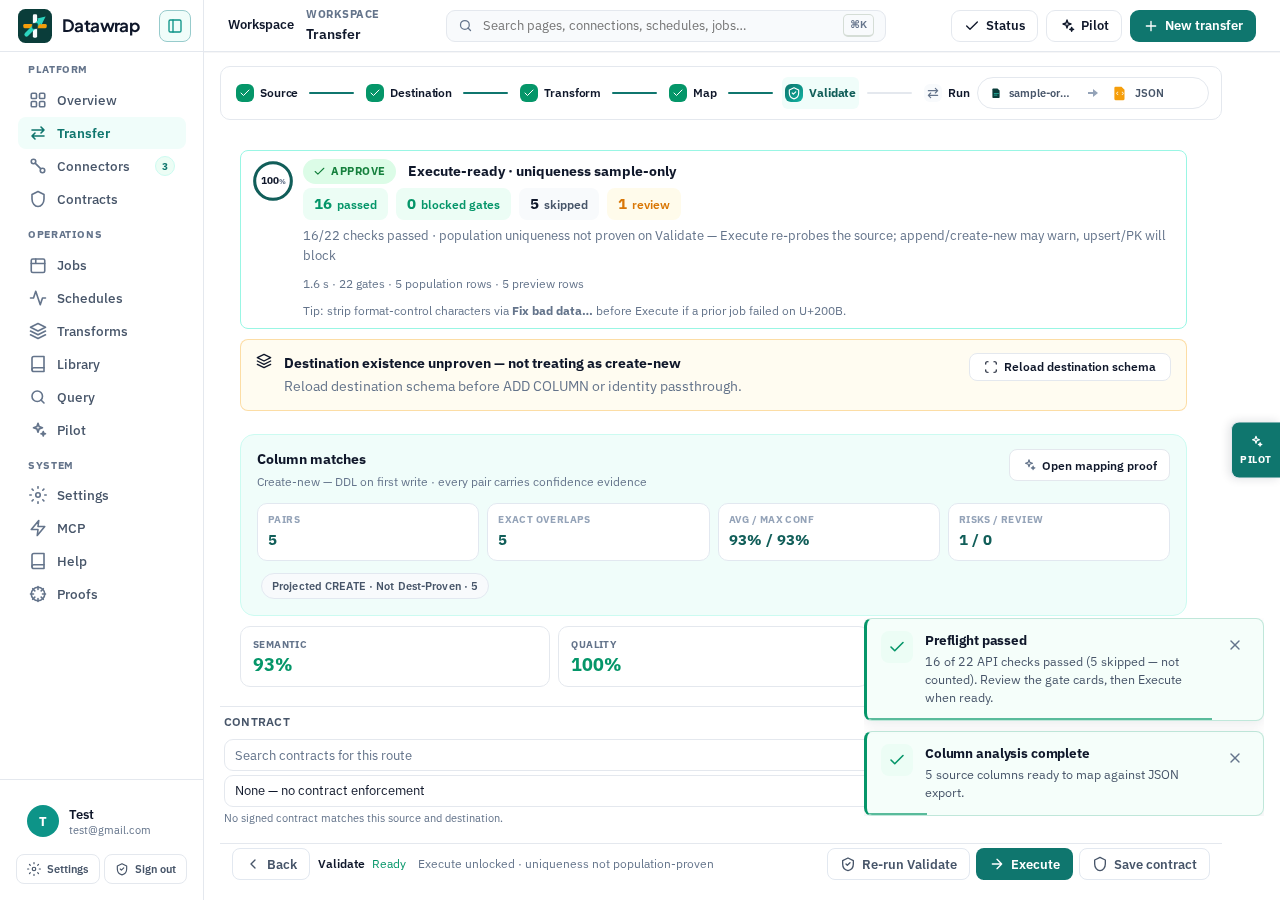
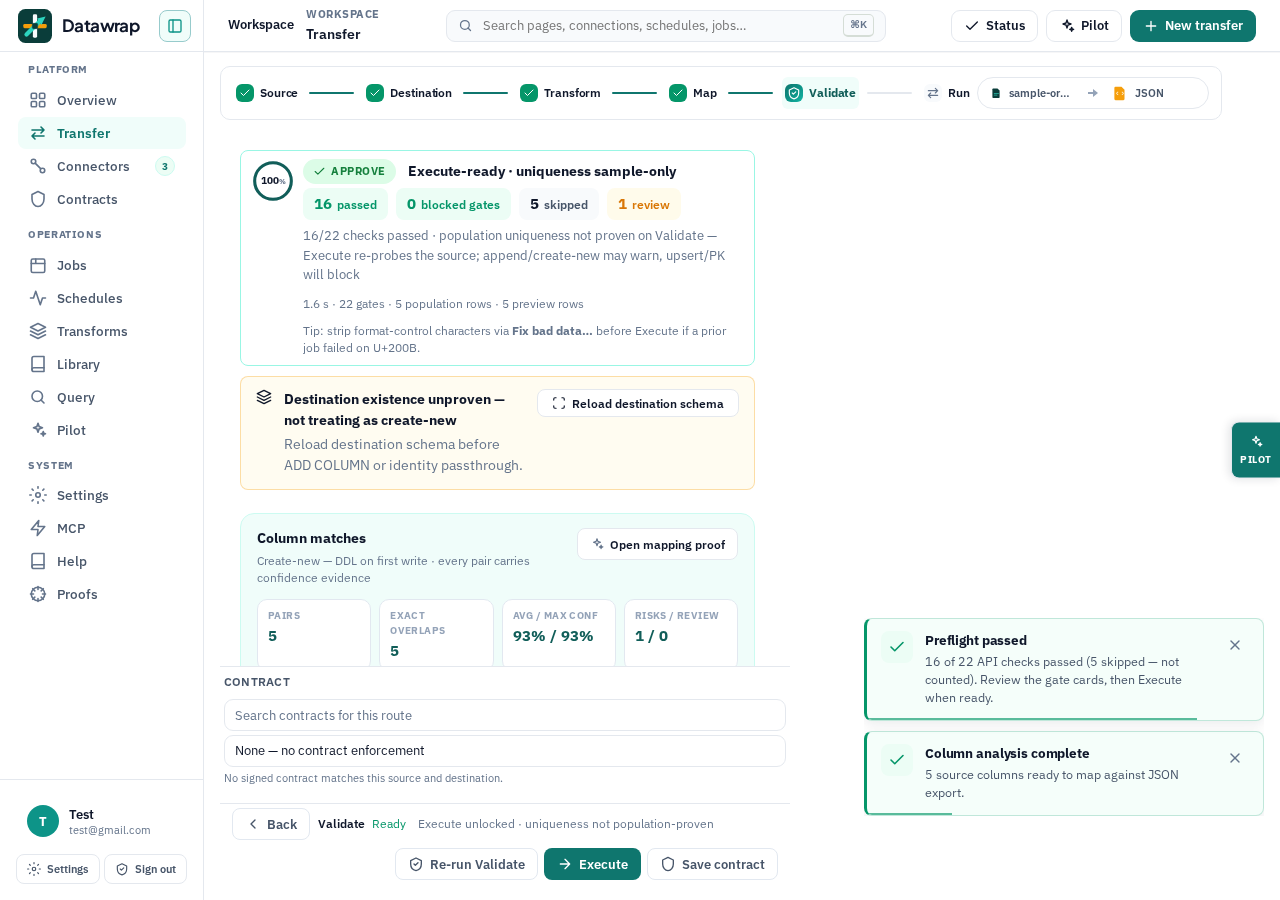
defects: D-BP-11 validate toast gutter, mx1_02 allowlist merge, accent token, X-3 runtime oracle
- D-BP-11: reserve a toast gutter via margin-right on the step viewport while
  any .dt-toast is on screen (padding is !important-locked on the validate
  host); spec now hard-asserts Validate leg — step active, >=1 toast, zero
  intersection with contract search/select, every metric card, footer and
  primary actions at 1440 and 1280; after-PNGs committed.
- mx1_02: autouse fixture merges DATAFLOW_EGRESS_ALLOWLIST instead of
  replacing it and includes 127.0.0.0/8 and ::1/128 so the live pin-connect
  can reach the container.
- .df2-map-error-details > summary uses var(--df-brand-text), dropping the
  hard-coded #2563eb fallback.
- X-3: runtime oracle (_recipe_step_sql) now covers cast_column to integer
  family and declared-precision decimal on PG/MySQL/T-SQL; 7 regressions.
  Runtime coverage is separate from the 17/43 test-level oracle counter.

diff --git a/apps/web/e2e/toast-footer-clearance.spec.ts b/apps/web/e2e/toast-footer-clearance.spec.ts
@@ -50,7 +50,8 @@ async function assertToastClearance(page: Page, label: string) {
 
   const targets = page.locator(
     ".df2-wizard-footer, .df2-run-footer, .df2-transfer-step-panel .df2-btn-primary, " +
-      ".df2-empty-state, .df2-map-empty-state, .df2-card",
+      ".df2-empty-state, .df2-map-empty-state, .df2-card, " +
+      ".df2-contract-bind, .df2-vd-metric",
   );
   const targetBoxes = await visibleBoxes(targets);
   expect(
@@ -94,23 +95,38 @@ test.describe("toast/footer clearance (D-BP-11)", () => {
       await loadSample(page);
       await assertToastClearance(page, `Source @${width}px`);
 
-      // Validate step: the "Preflight passed" toast used to cover the contract
-      // search/select row — the original complaint.
-      const next = page.getByRole("button", {
-        name: /Continue to (Destination|Validate|Transform)/,
+      // Validate step — HARD assertion: the spec must actually reach the
+      // Validate panel (the "Preflight passed" toast covered the contract
+      // search/select and a metric card — the original complaint). Any
+      // conditional path that skips this leg is a spec bug.
+      const clickIf = async (re: RegExp, ms = 2500) => {
+        const b = page.getByRole("button", { name: re }).first();
+        if (await b.isVisible().catch(() => false)) {
+          await b.click().catch(() => {});
+          await page.waitForTimeout(ms);
+        }
+      };
+      await clickIf(/Continue to Destination/);
+      const fileTab = page.getByRole("tab", { name: /File export|File/ }).first();
+      if (await fileTab.isVisible().catch(() => false)) {
+        await fileTab.click();
+        await page.waitForTimeout(400);
+      }
+      await clickIf(/Continue to Review|Continue to Transform/);
+      await clickIf(/Review result/);
+      await clickIf(/Continue without transforming/);
+      const toValidate = page
+        .getByRole("button", { name: /Continue to Validate/ })
+        .first();
+      await toValidate.waitFor({ state: "visible", timeout: 15_000 });
+      await toValidate.click();
+      // Validate panel + the contract bind field + at least one metric card
+      // must be on screen, and the Validate toasts must be live.
+      await expect(page.locator(".df2-contract-bind").first()).toBeVisible({
+        timeout: 15_000,
       });
-      if (await next.isVisible().catch(() => false)) {
-        await next.click();
-      }
-      // Reach Validate via the step rail if the wizard exposes it; otherwise
-      // settle for any step that still shows a live toast.
-      const validateTab = page.getByRole("tab", { name: /Validate/ });
-      if (await validateTab.isVisible().catch(() => false)) {
-        await validateTab.click();
-      }
-      if (await page.locator(".dt-toast:visible").count()) {
-        await assertToastClearance(page, `post-Source step @${width}px`);
-      }
+      await expect(page.locator(".df2-vd-metric").first()).toBeVisible();
+      await assertToastClearance(page, `Validate step @${width}px`);
     });
   }
 });

diff --git a/apps/web/src/styles/transfer-studio.css b/apps/web/src/styles/transfer-studio.css
@@ -10476,6 +10476,17 @@ body:has(.df2-page-transfer-studio .df2-transfer-step-panel) .dt-toast-host {
   max-height: min(240px, 30vh);
 }
 
+/* D-BP-11 Validate leg: while any toast is on screen, the step viewport
+   reserves the toast column outright — contract search/select, metric cards,
+   footers and content reflow left of the gutter instead of painting under the
+   toasts. Engages only while .dt-toast exists, so there is no dead space.
+   margin-right, not padding-right: the Validate host pins padding: 0
+   !important and a padded rule can never win that fight. */
+body:has(.df2-page-transfer-studio .df2-transfer-step-panel):has(.dt-toast)
+  .df2-transfer-step-viewport {
+  margin-right: calc(var(--df-toast-width) + 32px);
+}
+
 .df2-page-transfer-studio .df2-transfer-step-viewport {
   scroll-padding-bottom: 110px;
 }
@@ -12088,7 +12099,7 @@ body:has(.df2-page-transfer-studio .df2-xform) .dt-toast-host {
 }
 .df2-map-error-details > summary {
   cursor: pointer;
-  color: var(--df-accent, #2563eb);
+  color: var(--df-brand-text);
   text-align: center;
 }
 .df2-map-error-details > p {

diff --git a/apps/api/tests/test_x3_runtime_oracle_ops.py b/apps/api/tests/test_x3_runtime_oracle_ops.py
@@ -1,0 +1,86 @@
+"""X-3: the runtime transform-proof oracle must cover the ops the test-level
+oracles already prove — a production verdict on a trim/case/cast recipe was
+reporting ``oracle_uncovered_steps ["step 3 (cast_column)"]``.
+
+These regressions pin the emitted SQL per dialect for every newly wired op.
+Runtime coverage is a separate counter from the test-level oracle coverage:
+it counts ops whose faithful SQL fragment ``_recipe_step_sql`` can emit for
+every oracle dialect family (PG, MySQL, T-SQL).
+"""
+
+from __future__ import annotations
+
+import sys
+from pathlib import Path
+
+_API_ROOT = Path(__file__).resolve().parents[1]
+if str(_API_ROOT) not in sys.path:
+    sys.path.insert(0, str(_API_ROOT))
+
+import src.transfer.reconcile_step as _rs  # noqa: E402
+
+_recipe_step_sql = getattr(_rs, "_recipe_step_sql", None)
+
+
+def _call(op, opts, col, src_type):
+    assert _recipe_step_sql is not None, "_recipe_step_sql missing (pre-fix)"
+    return _recipe_step_sql(op, opts, col, {}, src_type=src_type)
+
+
+def test_cast_integer_pg_rounds_like_engine():
+    # Engine: to_number -> to_integral_value(ROUND_HALF_UP), refusing
+    # non-whole input. PG numeric -> bigint casts half-away-from-zero.
+    sql = _call("cast_column", {"to_type": "integer"}, '"qty"', "postgresql")
+    assert sql == 'CAST(CAST("qty" AS numeric) AS bigint)'
+
+
+def test_cast_integer_mysql_uses_signed_cast():
+    sql = _call("cast_column", {"to_type": "integer"}, "`qty`", "mysql")
+    assert sql == "CAST(`qty` AS SIGNED)"
+
+
+def test_cast_integer_tsql_try_casts_then_rounds():
+    sql = _call("cast_column", {"to_type": "bigint"}, "[qty]", "sqlserver")
+    assert sql == "CAST(ROUND(TRY_CAST([qty] AS decimal(38,10)),0) AS bigint)"
+
+
+def test_cast_decimal_uses_declared_precision():
+    sql = _call(
+        "cast_column",
+        {"to_type": "decimal", "precision": 38, "scale": 10},
+        '"amt"',
+        "postgresql",
+    )
+    assert sql == 'CAST("amt" AS DECIMAL(38,10))'
+    sql = _call(
+        "cast_column",
+        {"to_type": "decimal", "precision": 38, "scale": 10},
+        "[amt]",
+        "mssql",
+    )
+    assert sql == "TRY_CAST([amt] AS decimal(38,10))"
+
+
+def test_cast_decimal_without_precision_stays_uncovered():
+    assert _call("cast_column", {"to_type": "decimal"}, '"amt"', "postgresql") is None
+    assert _call(
+        "cast_column", {"to_type": "decimal", "precision": "abc"}, '"amt"', "postgresql"
+    ) is None
+
+
+def test_loop_recipe_now_fully_covered():
+    """The exact reported recipe — trim + case + cast integer — must emit a
+    faithful fragment for every step on every oracle dialect family."""
+    steps = [
+        ("trim", {}, "note"),
+        ("case", {"mode": "upper"}, "note"),
+        ("cast_column", {"to_type": "integer"}, "qty"),
+    ]
+    quote = {"postgresql": '"%s"', "mysql": "`%s`", "sqlserver": "[%s]"}
+    for dialect, q in quote.items():
+        for i, (op, opts, col) in enumerate(steps):
+            sql = _call(op, opts, q % col, dialect)
+            assert sql is not None, (
+                f"step {i + 1} ({op}) uncovered on {dialect} — "
+                "would report oracle_uncovered_steps"
+            )

diff --git a/apps/api/src/transfer/reconcile_step.py b/apps/api/src/transfer/reconcile_step.py
@@ -697,13 +697,46 @@ def _recipe_step_sql(
         for v in opts.get("values") or []:
             expr = f"NULLIF({expr}, {_lit(v)})"
         return expr
-    if op == "cast_column" and str(
-        opts.get("to_type") or ""
-    ).casefold() == "text":
-        if tsql:
-            return f"CAST({col_expr} AS nvarchar(max))"
-        cast = "TEXT" if src_type in {"postgresql", "postgres"} else "CHAR"
-        return f"CAST({col_expr} AS {cast})"
+    if op == "cast_column":
+        to_type = str(opts.get("to_type") or "").casefold()
+        if to_type == "text":
+            if tsql:
+                return f"CAST({col_expr} AS nvarchar(max))"
+            cast = "TEXT" if src_type in {"postgresql", "postgres"} else "CHAR"
+            return f"CAST({col_expr} AS {cast})"
+        if to_type in {"integer", "bigint", "smallint", "int"}:
+            # Engine: to_number -> to_integral_value(ROUND_HALF_UP), refusing
+            # non-whole inputs. Each fragment rounds half-away-from-zero the
+            # same way; a source value the engine refused never lands in eo,
+            # so a NULL/0 oracle value for it simply never joins.
+            if tsql:
+                return (
+                    "CAST(ROUND(TRY_CAST("
+                    f"{col_expr} AS decimal(38,10)),0) AS bigint)"
+                )
+            if src_type in {"postgresql", "postgres"}:
+                # numeric -> bigint rounds half-away-from-zero.
+                return f"CAST(CAST({col_expr} AS numeric) AS bigint)"
+            # MySQL CAST(x AS SIGNED) rounds; verified against the engine in
+            # test_oracle_cast_column_integer_matches_mysql_cast.
+            return f"CAST({col_expr} AS SIGNED)"
+        if to_type == "decimal":
+            precision = opts.get("precision")
+            scale = opts.get("scale")
+            if precision in (None, ""):
+                return None  # unbounded decimal — no faithful target width
+            try:
+                width = int(precision)
+                sc = 0 if scale in (None, "") else int(scale)
+            except (TypeError, ValueError):
+                return None
+            # Engine quantizes ROUND_HALF_UP then refuses overflow; every
+            # dialect's CAST(.. AS DECIMAL(p,s)) applies the same rule —
+            # PG errors on overflow, MySQL clamps (harmless: the engine
+            # refused that row so no eo entry exists), T-SQL TRY_CAST NULLs.
+            if tsql:
+                return f"TRY_CAST({col_expr} AS decimal({width},{sc}))"
+            return f"CAST({col_expr} AS DECIMAL({width},{sc}))"
     return None
 
 

diff --git a/apps/api/tests/test_mx1_02_sftp_operator_pins_host_key.py b/apps/api/tests/test_mx1_02_sftp_operator_pins_host_key.py
@@ -27,8 +27,15 @@ from src.transfer.connector_registry import run_probe
 def _egress_hermetic(monkeypatch):
     """``sftp.example.com`` fixtures resolve to TEST-NET-1 (198.18.0.0/15) on
     this box, which the egress guard refuses without an explicit allowlist.
-    Pin the range here so the tests are hermetic wherever they run."""
-    monkeypatch.setenv("DATAFLOW_EGRESS_ALLOWLIST", "198.18.0.0/15")
+    Merge — never replace — so the live pin-connect test keeps working on a
+    box whose SFTP container sits on loopback (127.0.0.1:2222)."""
+    existing = os.environ.get("DATAFLOW_EGRESS_ALLOWLIST") or ""
+    merged = ",".join(
+        p
+        for p in [existing, "127.0.0.0/8", "::1/128", "198.18.0.0/15"]
+        if p.strip()
+    )
+    monkeypatch.setenv("DATAFLOW_EGRESS_ALLOWLIST", merged)
 
 
 # Live pin-connect creds match the qa-sftp container by default and are
